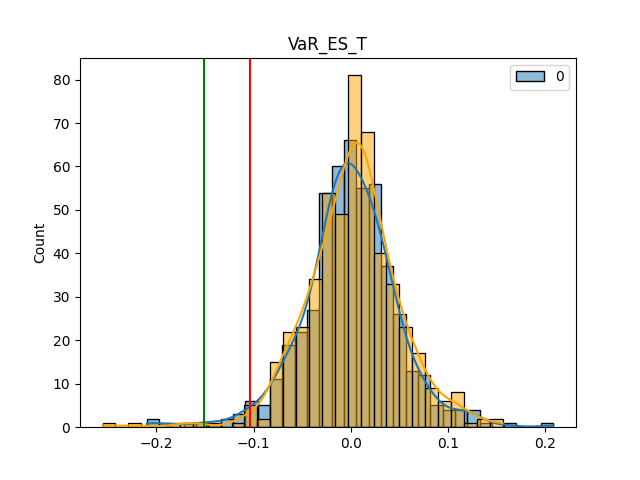
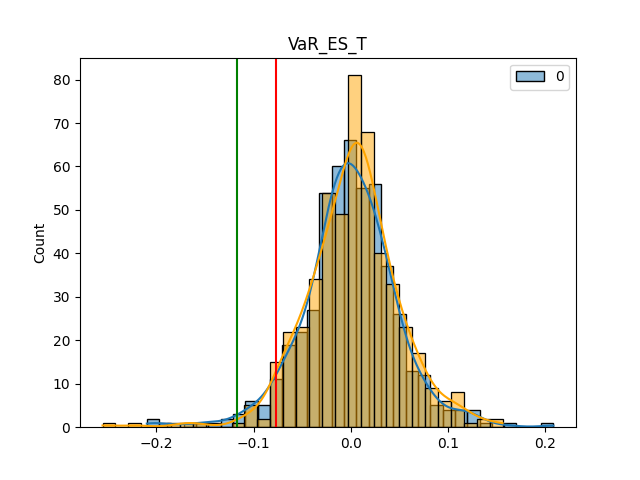
fix VaR and ES_T

diff --git a/RiskMgmt/ES.py b/RiskMgmt/ES.py
@@ -22,6 +22,13 @@ def get_VaR_ES(rt, alpha):
     temp = rt[rt <= VaR].dropna()
     ES = np.mean(temp)
     
+    plt.cla()
+    sns.histplot(rt, kde=True, color="blue", label="original data")
+    plt.axvline(VaR, color='r', label='VaR')
+    plt.axvline(ES, color='g', label='ES')
+    plt.title("VaR_ES")
+    plt.savefig("plots/problem3_VaR_ES.png")
+    
     return -VaR, -ES
     
 # absolute value of VaR for fitted normal distribution
@@ -81,5 +88,24 @@ def get_VaR_ES_T(rt, alpha):
     plt.axvline(ES, color='g', label='ES_T')
     plt.title("VaR_ES_T")
     plt.savefig("plots/problem3_VaR_ES_T.png")
+    
+    return -VaR, -ES
+
+def get_VaR_ES_historic(rt, alpha):
+
+    times = len(rt)
+    np.random.seed(1)
+    his_distribution = np.random.choice(rt, size=times, replace=True)
+    VaR = np.percentile(his_distribution, alpha * 100)
+    temp = his_distribution[his_distribution <= VaR]
+    ES = np.mean(temp)
+    
+    plt.cla()
+    sns.histplot(rt, kde=True, color="blue", label="original data")
+    sns.histplot(his_distribution, kde=True, color="orange", label="fitted_historical")
+    plt.axvline(VaR, color='r', label='VaR_Normal')
+    plt.axvline(ES, color='g', label='ES_Normal')
+    plt.title("VaR_ES_historical")
+    plt.savefig("plots/problem3_VaR_ES_historical.png")
     
     return -VaR, -ES

diff --git a/Week05/problem1.py b/Week05/problem1.py
@@ -40,8 +40,8 @@ def get_VaR_ES_T(rt, alpha):
     mu = np.mean(rt)
     sigma = np.std(rt)
     df, loc, scale = st.t.fit(rt, loc=mu, scale=sigma)
-    fit_t = st.t.rvs(df = df, loc = loc, scale = scale, size = len(rt))
-    VaR = st.t.ppf(alpha, df=df, loc=mu, scale=sigma)
+    fit_t = st.t.rvs(df=df, loc=loc, scale=scale, size=len(rt))
+    VaR = st.t.ppf(alpha, df=df, loc=loc, scale=scale)
     temp = fit_t[fit_t <= VaR]
     ES = np.mean(temp)
     

diff --git a/Week05/problem3.py b/Week05/problem3.py
@@ -61,6 +61,6 @@ if __name__ == '__main__':
     sum_port["total"] = sum_port["A"] + sum_port["B"] + sum_port["C"]
     
     for name, port in sum_port.iteritems():
-        VaR_his, ES_his = ES.get_VaR_ES_historic(port, alpha=0.05)
+        VaR_his, ES_his = ES.get_VaR_ES(port, alpha=0.05)
         print("Portfolio", name, "VaR: ", VaR_his, "ES: ", ES_his)
             
